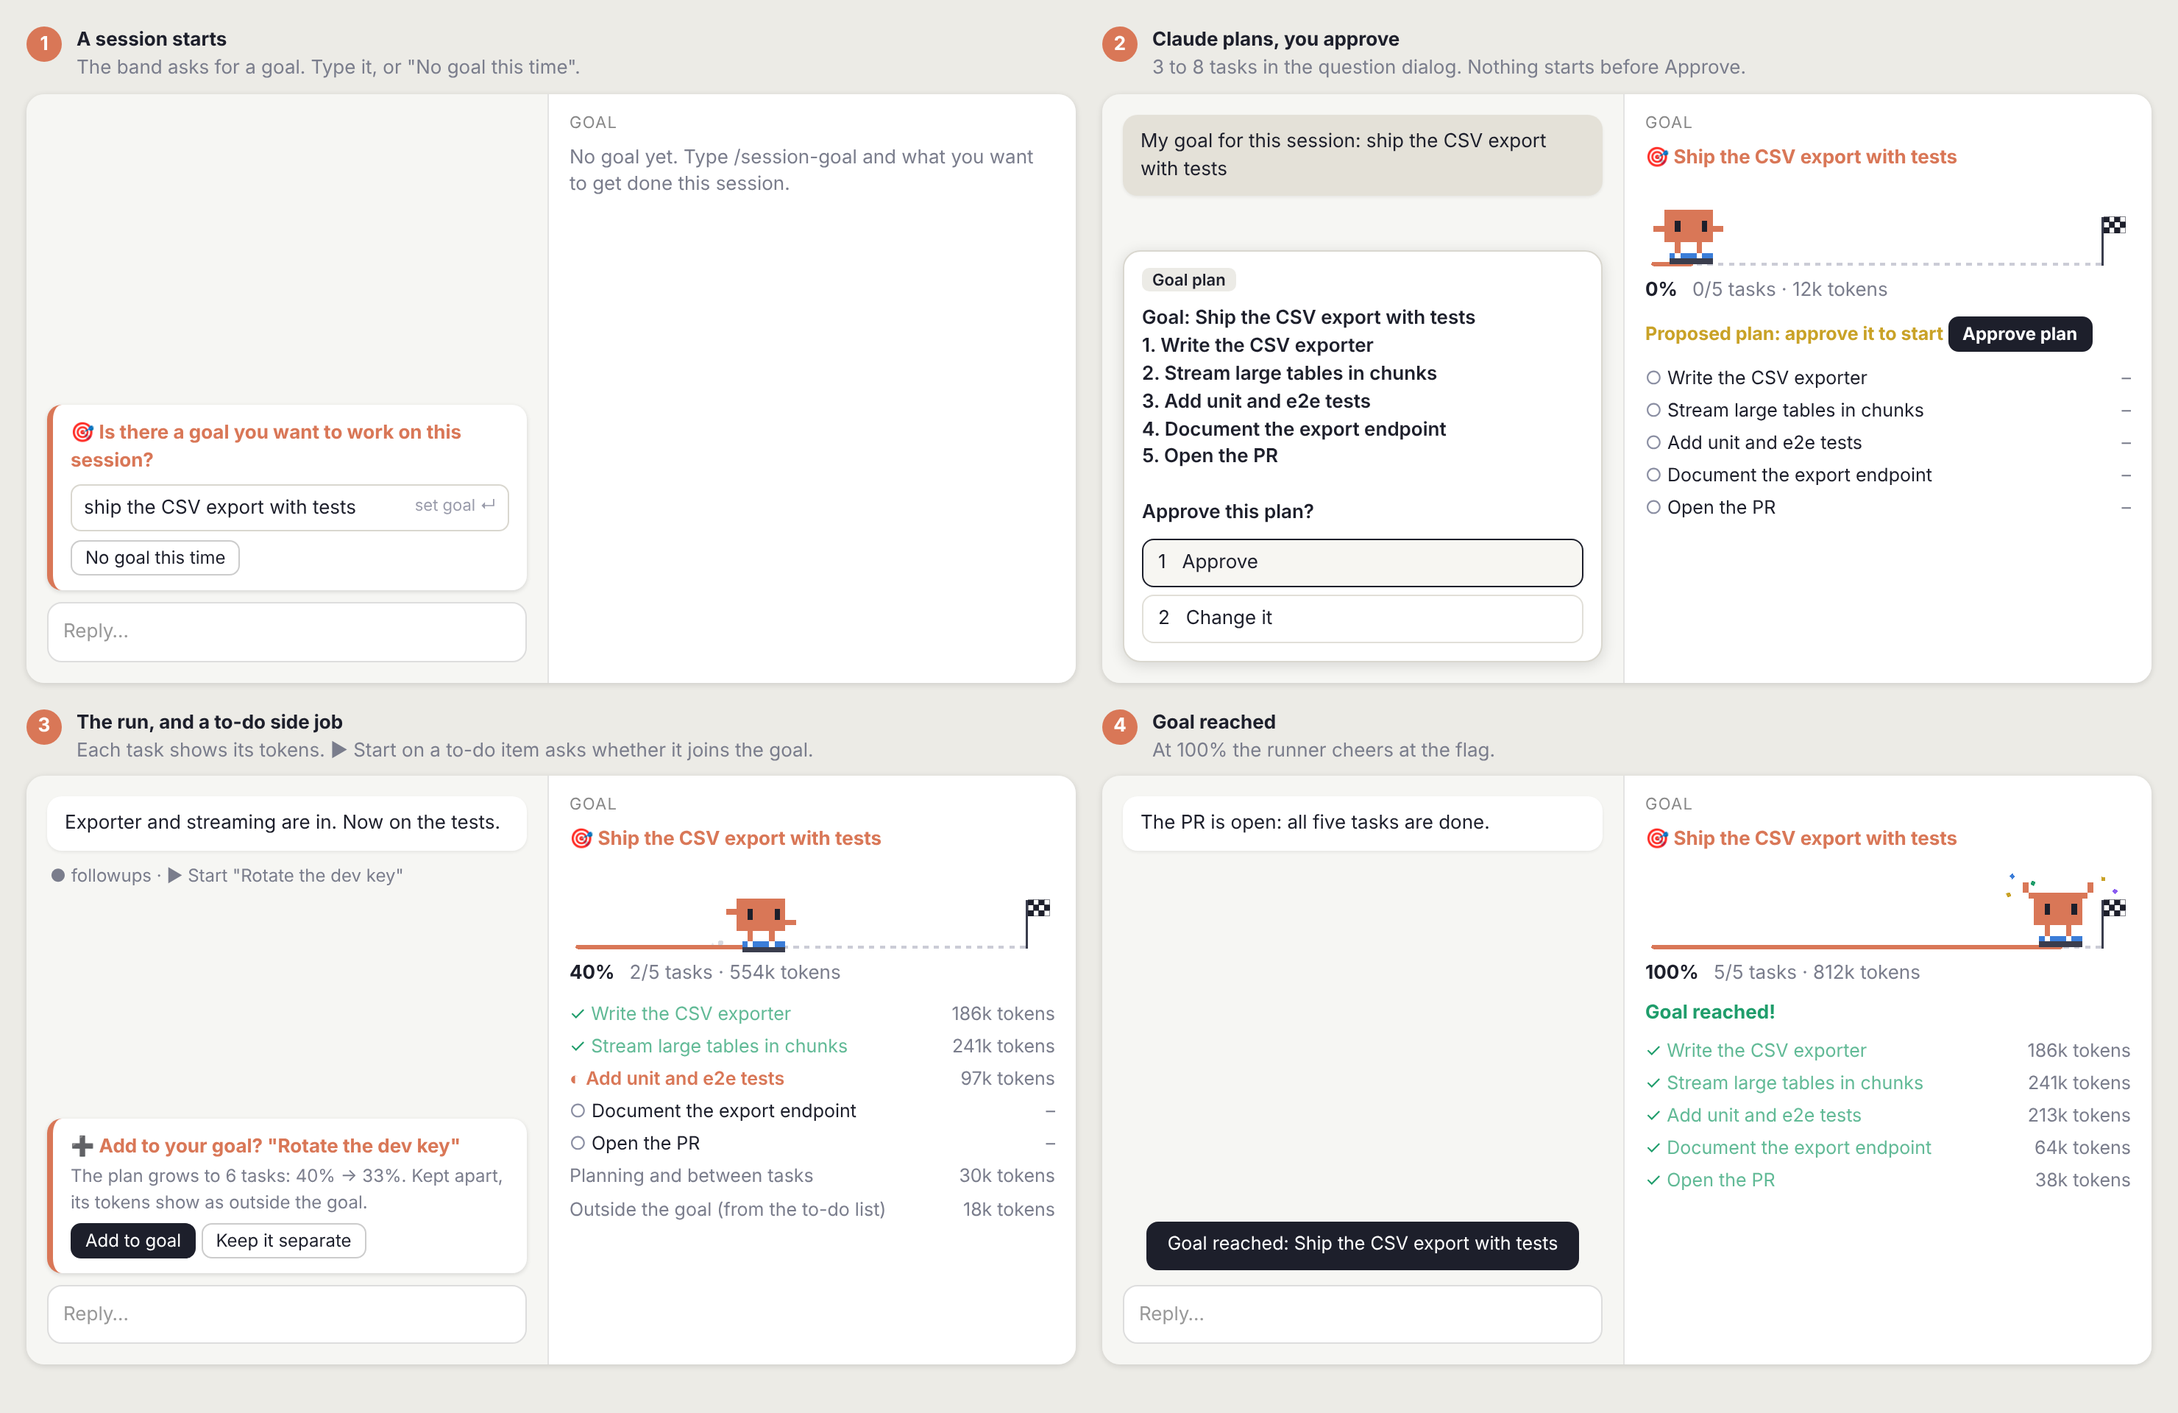
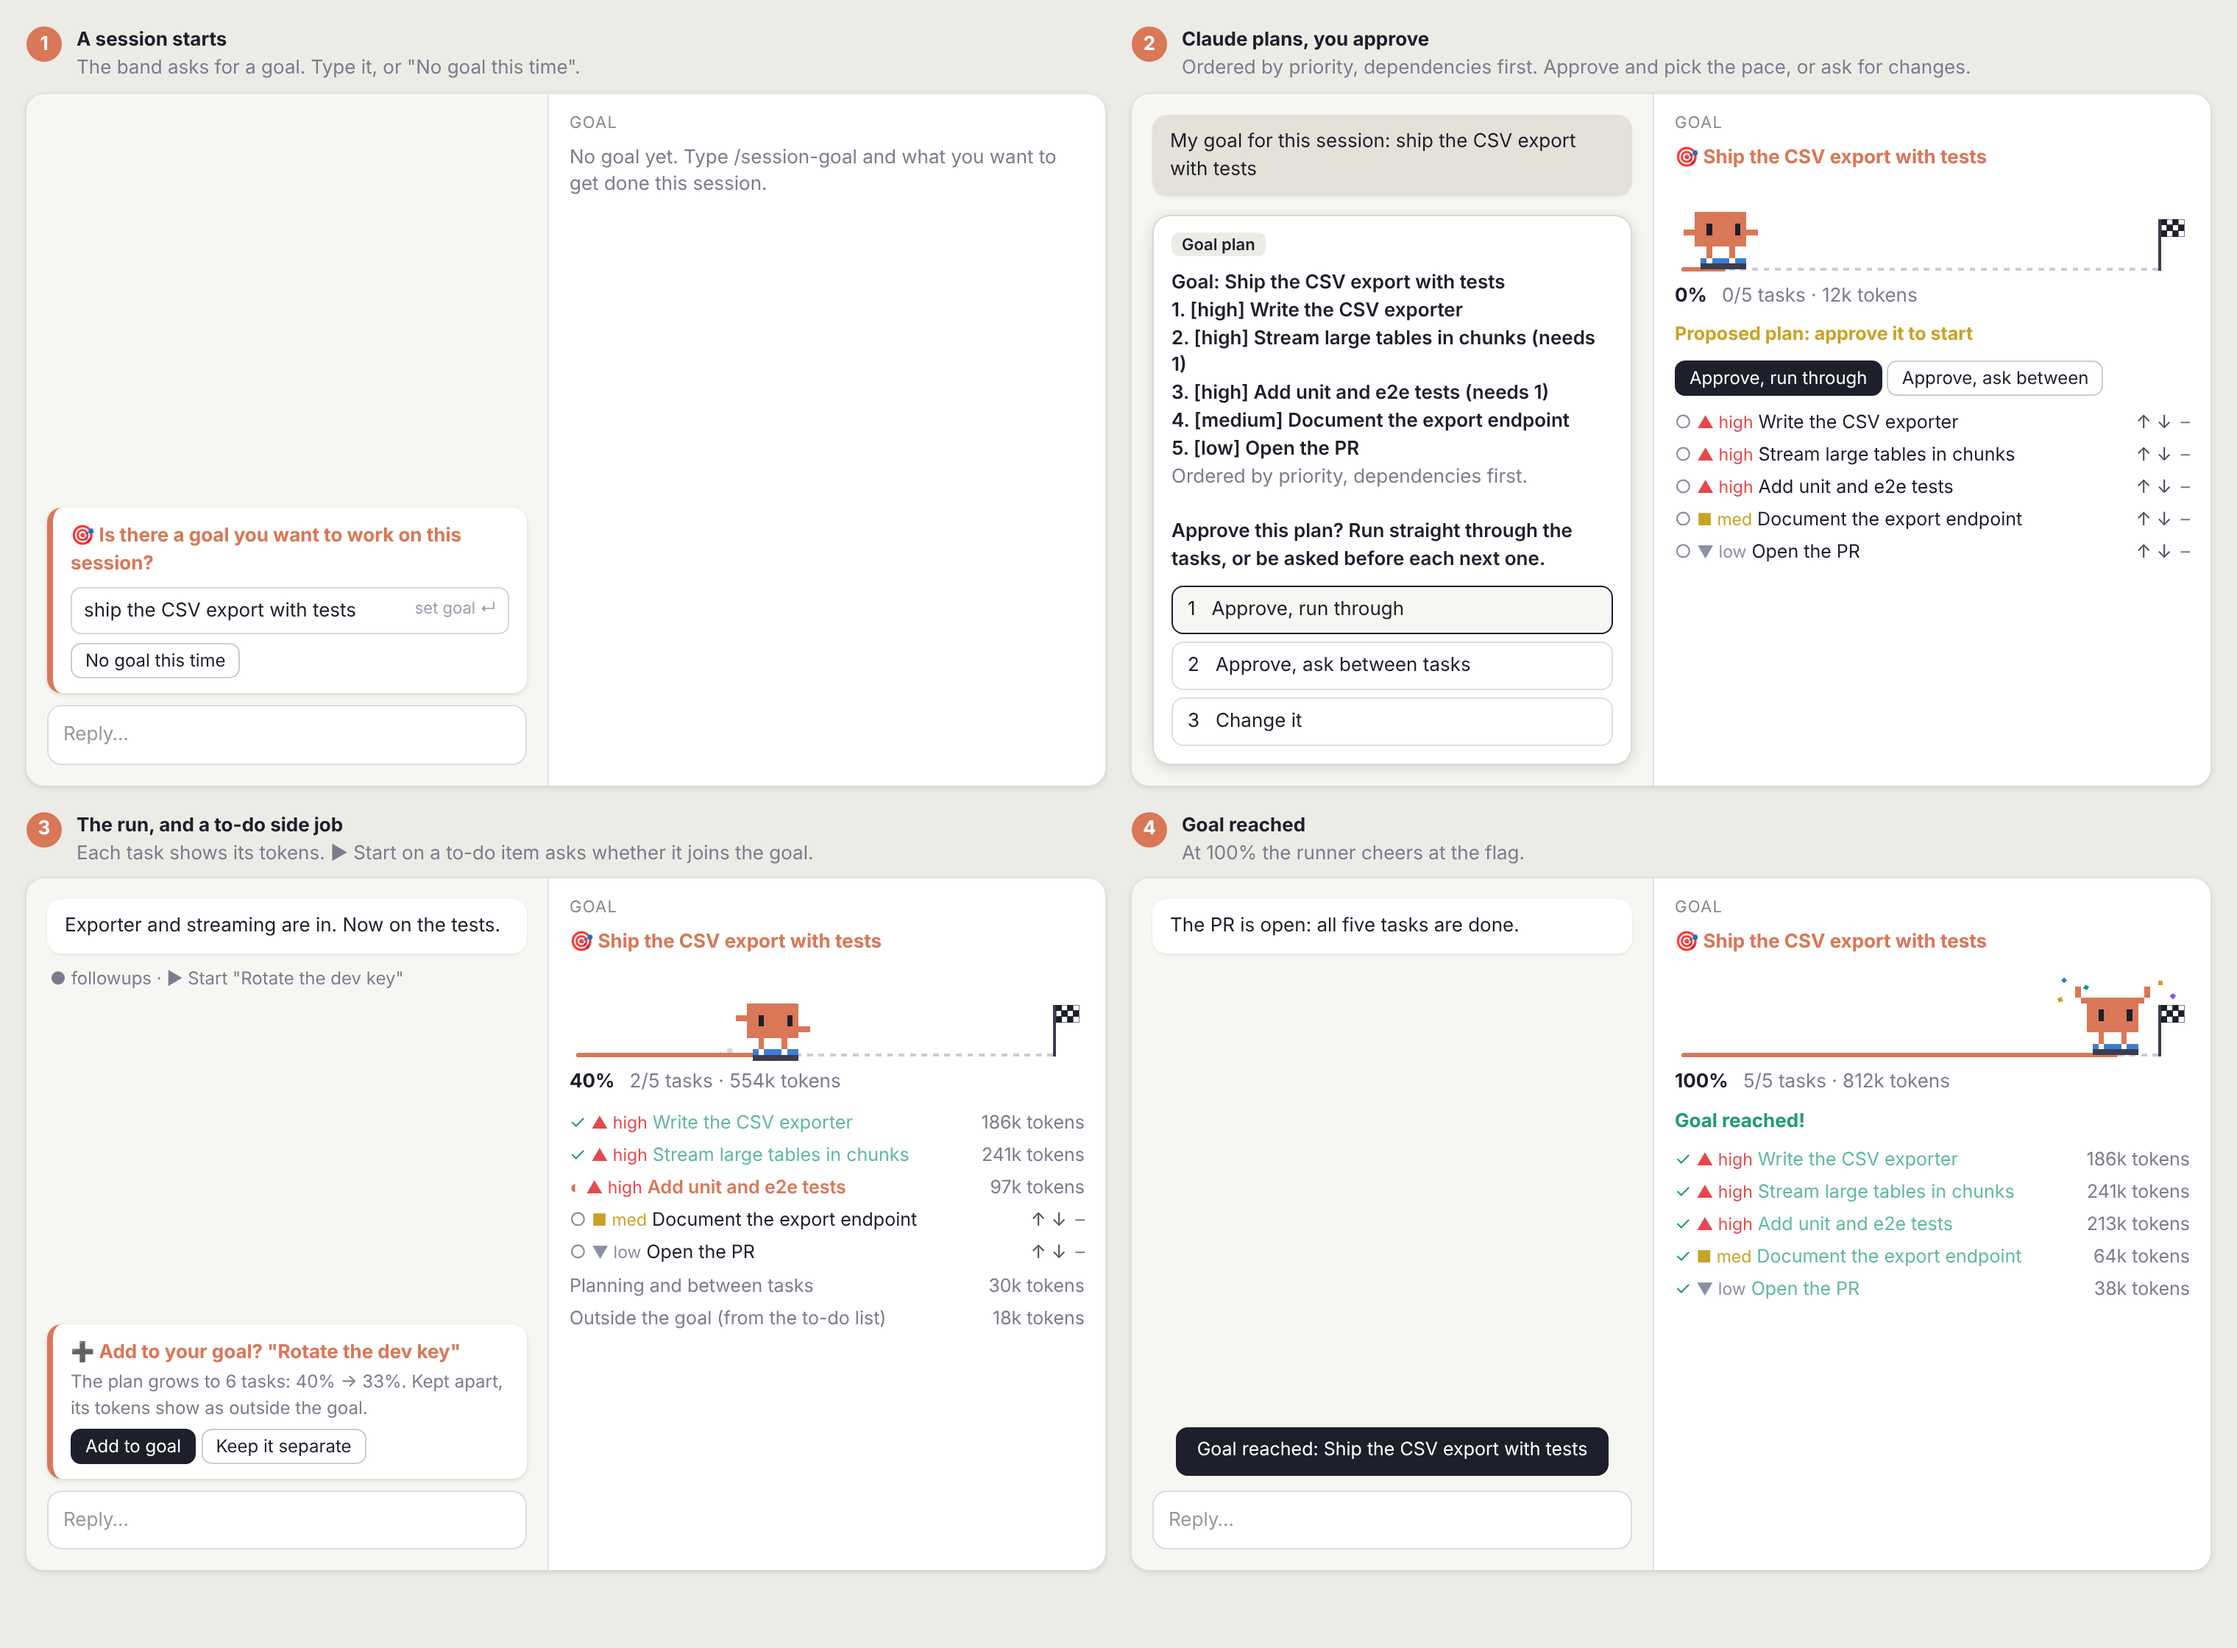
README: goal-run as it works now, with up-to-date pictures
The goal-run section follows the process in order (the question, the
plan by priority, approval and pace, the run, tokens per task), then
how to steer it while it runs (reorder, add a task, re-plan, to-do
side jobs), then commands and options. All three pictures are redrawn
for 0.3.0: priorities, ↑/↓, the two approve choices, the pace switch,
adding a task mid-goal and the question between tasks.

Claude-Session: https://claude.ai/code/session_01JhDtA2jSsNXc4mSZVHtjKT

diff --git a/README.md b/README.md
@@ -160,28 +160,41 @@ Tests: `claude plugin test plugins/rtl-toggle`.
 
 ## goal-run: a goal for the session
 
-![goal-run: the question a session opens with, and the Goal pane with the runner at 40% and each task's tokens](assets/goal-run.png)
+![goal-run: the question a session opens with, and the Goal pane at 40%, with each task's priority and tokens](assets/goal-run.png)
 
-<sub>A mock-up, not a screenshot. The track and the runner are drawn by the mod's own `art.ts`; the band and the pane around them follow its layout.</sub>
-
-**The whole run, step by step:** the question when a session starts, the plan put to you for approval, the run with a to-do item started on the side, and the goal reached.
-
-![goal-run in four steps: the start-of-session question; the plan in the question dialog with the pane waiting at 0%; the runner at 40% with each task's tokens and the band asking whether a to-do item joins the goal; the runner cheering at the flag at 100%](assets/goal-run-flow.png)
-
-<sub>Also a mock-up: the runner and track are the mod's own drawing at each step; the dialog is Claude Code's, so yours will look like your app's.</sub>
+<sub>Mock-ups, not screenshots: the track and the runner are drawn by the mod's own `art.ts`, and the band, the pane and the dialogs follow its layout. The dialogs are Claude Code's own, so yours will look like your app's.</sub>
 
 ```text
 /plugin install goal-run@claudemod
 ```
 
-- **The question.** When a session starts, a band above the prompt asks *Is there a goal you want to work on this session?*, with a field to type it. **No goal this time** dismisses it. If an earlier session in this project left a goal unfinished, the band offers **Continue**, **New goal** or **Not now** instead. `/session-goal <text>` sets a goal at any time, `/session-goal` shows it, and `/session-goal clear` drops it (Claude Code has its own `/goal`, so the mod's is named apart).
-- **The plan.** Your goal goes to Claude, which breaks it into 3 to 8 tasks with the `plan` tool, each with a priority (high, medium or low) and the tasks it depends on. The plan is ordered by priority, highest first, except that a task comes after what it depends on (tests after the code they test) and says so (*needs 2*). The dialog shows each task's priority, and **↑ ↓** in the pane move pending tasks; Claude works the list in its current order, yours included. You approve it in the question dialog, or say what to change (Claude revises and asks again). Nothing starts before you approve. A plan whose dialog you closed waits in the pane with **Approve plan**.
-- **Run through, or be asked.** The approval dialog offers **Approve, run through**: Claude goes from task to task on its own, and if it tries to stop with tasks left, it's sent on once, unless it says it's blocked or needs you. Or **Approve, ask between tasks**: after each task a dialog asks *"Add tests" is done (40%). Go on to "Document the endpoint"?* with **Continue** or **Stop here**. A button in the pane switches between the two while you work.
-- **Adding a task mid-goal.** Ask Claude for more work during the goal, and it uses the `add` tool with a priority and what the task needs. The task goes in among the pending tasks by priority, after anything it needs, and a dialog shows where (*It goes in as #3, before "C". Progress 25% → 20%*) for you to **Add it** or say **Not now**. Done and in-progress tasks stay as they are. A full re-plan also keeps the done tasks and their tokens. A to-do item marked as a bug joins the goal as high priority.
-- **The run.** The Goal pane shows the goal, a track from 0 to 100%, and a pixel Claude in blue sneakers that stands still between tasks and runs while one is in progress. Claude marks each task in progress and done with the `update` tool, and the runner moves along the track as tasks are done. At 100% it cheers at the flag. Each of your prompts while the goal is open carries the plan's state, so Claude keeps track of where it is.
-- **What each task cost.** Every model request, sub-agents' included, is counted against the task in progress, and the pane shows each task's tokens. Planning and work between tasks have a line of their own. The count is everything a request carries (input, output, cache reads and writes), not a price.
-- **With followups' to-do list.** Pressing **▶ Start** on a to-do item while a goal is open is a side job. Claude gets no goal reminder with it, so the two don't compete, and its tokens show on a line of their own, *Outside the goal*. The band above the prompt asks whether to **Add to goal**, and shows what that does to the plan (*grows to 6 tasks: 40% → 33%*), or **Keep it separate**. Added, the item becomes a task in progress that carries the tokens it used so far, and it turns done when followups marks the item done. The goal's text stays the same, but the plan grows, so the percentage drops to match the work added. The side job ends when you send a prompt of your own.
-- The goal is saved per project on the machine running Claude Code, like followups' list. Turn the question off with the `askOnStart` option.
+### How a goal runs
+
+![goal-run in four steps: the start-of-session question; the plan by priority in the approval dialog, with the pane waiting at 0%; the runner at 40% with each task's tokens and a to-do item offered to the goal; the runner cheering at 100%](assets/goal-run-flow.png)
+
+1. **The question.** When a session starts, a band above the prompt asks *Is there a goal you want to work on this session?*, with a field to type it. **No goal this time** dismisses it. If an earlier session in this project left a goal unfinished, the band offers **Continue**, **New goal** or **Not now** instead.
+2. **The plan, by priority.** Your goal goes to Claude, which breaks it into 3 to 8 tasks with the `plan` tool. Each task has a priority (high, medium or low) and the tasks it depends on. The plan is ordered highest priority first, except that a task comes after what it needs: tests come after the code they test, and say so (*needs 1*).
+3. **Your approval, and the pace.** The plan is put to you in a dialog, each task with its priority. Pick **Approve, run through**, **Approve, ask between tasks**, or **Change it** (Claude revises and asks again). Nothing starts before you approve. If you close the dialog, the plan waits in the pane with both approve buttons.
+   - **Run through:** Claude goes from task to task on its own. If it tries to stop with tasks left, it's sent on once; it can still stop when it's blocked or needs your decision.
+   - **Ask between tasks:** after each task, a dialog asks *"Add tests" is done (40%). Go on to "Document the endpoint"?*, with **Continue** or **Stop here**.
+   - A button in the pane switches between the two while you work.
+4. **The run.** The Goal pane shows the goal, a track from 0 to 100%, and a pixel Claude in blue sneakers. It stands still between tasks, runs while one is in progress, and cheers at the flag at 100%. Claude marks each task in progress and done with the `update` tool, and takes the first pending task in the list's current order. Each of your prompts while the goal is open carries the plan's state, so Claude keeps track of where it is.
+5. **What each task cost.** Every model request, sub-agents' included, is counted against the task in progress, and the pane shows each task's tokens. Planning and work between tasks have a line of their own. The count is everything a request carries (input, output, cache reads and writes), not a price.
+
+### Steering it while it runs
+
+![goal-run while it runs: the plan by priority with the pace choice; a task added mid-goal, placed by priority; the question between tasks; running through, sent on to the next task](assets/goal-run-steering.png)
+
+- **Reorder.** **↑ ↓** in the pane move tasks that haven't started. Claude works the list as you leave it.
+- **Add a task.** Ask Claude for more work during the goal, and it uses the `add` tool with a priority and what the task needs. The task goes in among the tasks that haven't started, by priority and after anything it needs. A dialog shows where it lands and what that does to the percentage (*It goes in as #4, before "Document the endpoint". Progress 50% → 40%*), and you choose **Add it** or **Not now**. Done and in-progress tasks stay where they are. The goal's text doesn't change, but the plan grows, so the percentage drops to match the work added.
+- **Re-plan.** A new plan in the middle of a goal keeps the done tasks and their tokens.
+- **Work from followups' to-do list.** Pressing **▶ Start** on a to-do item while a goal is open is a side job. Claude gets no goal reminder with it, so the two don't compete, and its tokens show on a line of their own, *Outside the goal*. The band above the prompt asks whether to **Add to goal**, showing what that does to the plan (*grows to 6 tasks: 40% → 33%*), or **Keep it separate**. Added, the item becomes a task in progress, carrying the tokens it used so far, and a bug comes in as high priority. It turns done when followups marks the item done. The side job ends when you send a prompt of your own.
+
+### Commands and options
+
+- `/session-goal <text>` sets a goal at any time, `/session-goal` shows it, and `/session-goal clear` drops it. Claude Code has its own `/goal`, so the mod's command has a different name.
+- The goal is saved per project on the machine running Claude Code, like followups' list, so it carries over between local sessions in the same folder.
+- `askOnStart` (`on` / `off`) turns the start-of-session question off.
 
 Tests: `claude plugin test plugins/goal-run`.
 
